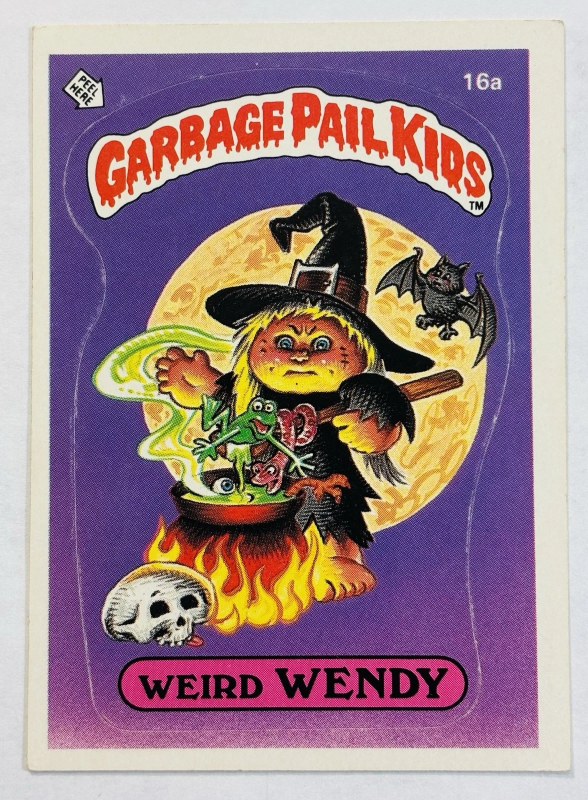
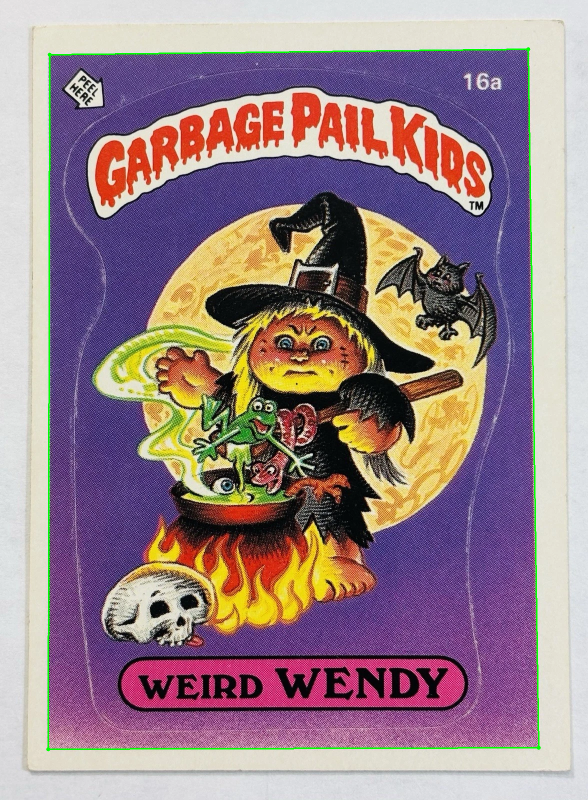
refactor: Improve card detection robustness with morphological closing
Introduced a morphological closing operation (dilation followed by erosion)
applied to the Canny edge map in the `CardDetector`.
This change significantly improves the detection rate, enabling successful
detection of all sample images in the `data/` directory, including
`gpk-37a.png`, `gpk-37a.webp`, and `gpk-16a.webp` which were previously
not detected.

Parameters in `CardDetector` are set to moderate values that work well
in conjunction with the morphological operation:
- Gaussian Blur Kernel: (5,5)
- Canny Thresholds: (30, 100)
- Min Contour Area Factor: 0.05
- ApproxPolyDP Epsilon Factor: 0.02

Changed region(s): [[0.8878, 0.0625, 0.9184, 0.9375], [0.0612, 0.0625, 0.0918, 0.9375]]

diff --git a/card_detector.py b/card_detector.py
@@ -5,14 +5,14 @@ import numpy as np
 class CardDetector:
     def __init__(self, gaussian_blur_kernel_size=(5, 5), canny_threshold1=50, canny_threshold2=150):
         self.gaussian_blur_kernel_size = gaussian_blur_kernel_size
-    def __init__(self, gaussian_blur_kernel_size=(5, 5), canny_threshold1=30, canny_threshold2=100): # Adjusted Canny
+    def __init__(self, gaussian_blur_kernel_size=(5, 5), canny_threshold1=30, canny_threshold2=100): # Reset to moderate for morph test
         self.gaussian_blur_kernel_size = gaussian_blur_kernel_size
         self.canny_threshold1 = canny_threshold1
         self.canny_threshold2 = canny_threshold2
         # Expected aspect ratio: width/height or height/width - Increased tolerance to 10%
         self.expected_aspect_ratio_range = ( (2.5 / 3.5) * 0.90, (2.5 / 3.5) * 1.10 )
         self.expected_aspect_ratio_range_inv = ( (3.5 / 2.5) * 0.90, (3.5 / 2.5) * 1.10 )
-        self.min_contour_area_factor = 0.05 # Reduced min area factor
+        self.min_contour_area_factor = 0.05 # Reset min area factor
 
     def _load_and_preprocess_image(self, image_path):
         """Loads an image, converts to grayscale, and applies Gaussian blur."""
@@ -30,8 +30,12 @@ class CardDetector:
         # Perform Canny edge detection
         edges_map = cv2.Canny(preprocessed_image, self.canny_threshold1, self.canny_threshold2)
 
-        # Find contours
-        contours, _ = cv2.findContours(edges_map, cv2.RETR_EXTERNAL, cv2.CHAIN_APPROX_SIMPLE)
+        # Morphological Closing operation
+        kernel_morph = np.ones((5,5),np.uint8) # 5x5 kernel for closing
+        closed_edges_map = cv2.morphologyEx(edges_map, cv2.MORPH_CLOSE, kernel_morph)
+
+        # Find contours on the closed edge map
+        contours, _ = cv2.findContours(closed_edges_map, cv2.RETR_EXTERNAL, cv2.CHAIN_APPROX_SIMPLE)
 
         # Sort contours by area (descending) and filter
         if not contours:
@@ -51,7 +55,7 @@ class CardDetector:
 
             # Approximate the contour to a polygon
             perimeter = cv2.arcLength(contour, True)
-            approx = cv2.approxPolyDP(contour, 0.03 * perimeter, True) # Increased epsilon slightly
+            approx = cv2.approxPolyDP(contour, 0.02 * perimeter, True) # Standard epsilon
 
             # The card should be a quadrilateral
             if len(approx) == 4:

diff --git a/test_detector.py b/test_detector.py
@@ -4,11 +4,14 @@ from card_detector import CardDetector
 
 def main():
     # Path to the directory containing test images
+    # Path to the directory containing test images
     data_dir = "data/"
     image_files = [os.path.join(data_dir, f) for f in os.listdir(data_dir) if f.lower().endswith(('.png', '.jpg', '.jpeg', '.webp'))]
+    # image_files = ["data/gpk-20b.webp"] # Test gpk-20b.webp with new settings
 
     if not image_files:
-        print(f"No images found in {data_dir}. Please add some test images.")
+        # This case should not be reached if we are hardcoding the file.
+        print(f"No images found. Please add some test images.")
         return
 
     # Initialize the card detector
